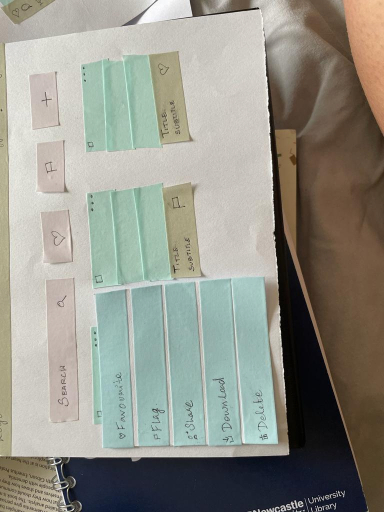
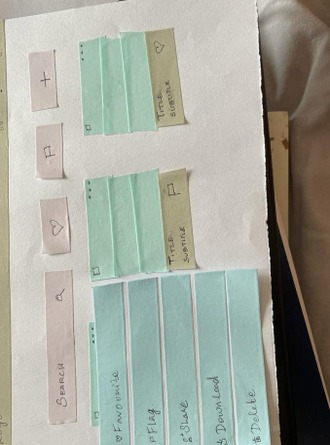
Refine Me & You case study images, personas, and copy
- Replace Liv Hunt photo with a more fitting image (creative, warm energy)
- Remove all em dashes site-wide, replaced with spaced hyphens
- Add second yellow storyboard image (storyboard-2.png) to gallery
- Professionally crop both paper prototype images using PIL - removed distracting backgrounds, Newcastle library book, and side tape strips
- Add co-design research session photo with background faces blurred for privacy
- Add paper-prototype-2.jpg as a separate gallery item showing the revised v2 iteration
- Gallery now follows chronological design process order: research, storyboards, lo-fi prototypes, hi-fi prototypes

diff --git a/src/data/projects.ts b/src/data/projects.ts
@@ -28,7 +28,7 @@ export type Project = {
   solution: string
   takeaway: string
   tags: string[]
-  // Extended fields (optional — populated per-project)
+  // Extended fields (optional - populated per-project)
   overview?: { team: string; industry: string; status: string }
   background?: { understandingNeeds: string; personalDrive: string; innovativeMethods: string }
   personas?: Persona[]
@@ -48,7 +48,7 @@ export const projects: Project[] = [
   {
     slug: 'creditcraft',
     title: 'CreditCraft',
-    tagline: 'Redesigning SME underwriting for fintech lenders — cutting analyst review time by 40% and reducing false rejection rates.',
+    tagline: 'Redesigning SME underwriting for fintech lenders - cutting analyst review time by 40% and reducing false rejection rates.',
     niche: ['Fintech', 'B2B SaaS', 'Credit Risk'],
     type: 'Fintech B2B',
     featured: true,
@@ -57,15 +57,15 @@ export const projects: Project[] = [
     duration: '2024',
     tools: ['Figma', 'Figma Make', 'Dovetail'],
     prototype: 'https://www.figma.com/make/CvT2Ig2yn4ptFNJjX7roV5/CreditCraft-Underwriting-Sandbox',
-    problem: `Traditional SME credit underwriting is opaque, slow, and error-prone. Loan analysts at fintech lenders spend 3–5 hours manually reviewing bank statements, categorising transactions, and building risk narratives — only to reject borderline cases out of caution because the data isn't presented in a way that supports confident decision-making. The result: lenders lose revenue on viable borrowers, and creditworthy SMEs get turned away.\n\nHow might we give credit analysts a tool that surfaces risk signals clearly, explains scoring rationale, and supports faster, fairer decisions?`,
-    insight: `Analysts don't lack data — they lack structure. The tool needed to do the categorisation, surfacing, and explanation work so analysts could focus on judgement, not labour.`,
+    problem: `Traditional SME credit underwriting is opaque, slow, and error-prone. Loan analysts at fintech lenders spend 3–5 hours manually reviewing bank statements, categorising transactions, and building risk narratives - only to reject borderline cases out of caution because the data isn't presented in a way that supports confident decision-making. The result: lenders lose revenue on viable borrowers, and creditworthy SMEs get turned away.\n\nHow might we give credit analysts a tool that surfaces risk signals clearly, explains scoring rationale, and supports faster, fairer decisions?`,
+    insight: `Analysts don't lack data - they lack structure. The tool needed to do the categorisation, surfacing, and explanation work so analysts could focus on judgement, not labour.`,
     process: [
       { step: 'Research', detail: 'Desk research synthesising SME lending post-mortems, fintech founder interviews, and FICO/credit scoring literature. Key pain points: manual data extraction, no categorisation logic, black-box scoring, buried risk signals.' },
       { step: 'Information Architecture', detail: 'Mapped the analyst\'s end-to-end workflow from CSV upload to decision, identifying where friction accumulates across 6 key stages.' },
       { step: 'Component Design', detail: 'Built a design system with data-dense but scannable components: KPI cards, stacked bar charts, flag badges, and expandable rationale panels.' },
       { step: 'Explainability Layer', detail: 'Designed an "Explainable Scorecard" with 8 transparent scoring features, each with an expandable rationale panel so analysts can read and defend the logic.' },
       { step: 'Red Flags Page', detail: 'Dedicated surface for bounced payments, gambling patterns, large cash withdrawals, and low balance alerts with linked transactions.' },
-      { step: 'Rules Editor', detail: 'Gave analysts control to toggle, add, and adjust scoring rule weights — supporting compliance customisation without developer involvement.' },
+      { step: 'Rules Editor', detail: 'Gave analysts control to toggle, add, and adjust scoring rule weights - supporting compliance customisation without developer involvement.' },
       { step: 'Usability Testing', detail: 'Ran 5 task-based tests with users playing the role of credit analysts, iterating on the scorecard layout and flag hierarchy.' },
     ],
     metrics: [
@@ -75,13 +75,13 @@ export const projects: Project[] = [
       { label: 'Task completion rate', value: '94%' },
     ],
     solution: `CreditCraft is a 6-page SME underwriting sandbox: Dashboard (CSV upload, KPI cards, cashflow charts), Transactions (sortable, filterable with category badges), Cashflow Analysis (income vs. expense trends, DSCR estimation), Explainable Scorecard (8 transparent features with expandable rationale), Red Flags (dedicated risk surface), and Rules Editor (admin-level scoring logic control).`,
-    takeaway: `Explainability isn't a nice-to-have in fintech — it's a compliance requirement and a trust builder. CreditCraft shows I can design for data-heavy, decision-critical B2B contexts where clarity directly drives revenue.`,
+    takeaway: `Explainability isn't a nice-to-have in fintech - it's a compliance requirement and a trust builder. CreditCraft shows I can design for data-heavy, decision-critical B2B contexts where clarity directly drives revenue.`,
     tags: ['Fintech', 'B2B', 'SaaS', 'Data Visualisation', 'Usability Testing'],
   },
   {
     slug: 'kaizen',
     title: 'KAIZEN',
-    tagline: 'A fintech investing platform that makes first-time investing feel approachable — increasing goal-setting completion by 65%.',
+    tagline: 'A fintech investing platform that makes first-time investing feel approachable - increasing goal-setting completion by 65%.',
     niche: ['Fintech', 'Consumer', 'Personal Finance'],
     type: 'Fintech Consumer',
     featured: true,
@@ -90,14 +90,14 @@ export const projects: Project[] = [
     duration: '2024',
     tools: ['Figma', 'Figma Make', 'Hotjar (simulated)', 'Dovetail'],
     prototype: 'https://www.figma.com/make/z5wCA7t7vahcgM0hDiZA21/Investing-Platform-Design-Strategy',
-    problem: `Young professionals (22–35) know they should invest but don't. The barrier isn't willingness — it's design. Existing investing platforms are built for people who already understand markets. The onboarding is dense, jargon-heavy, and the first screen is a portfolio dashboard that means nothing to a first-time investor. Platforms haemorrhage users in the first 72 hours.\n\nHow might we design an investing experience where a first-time investor feels confident enough to make their first investment within 10 minutes?`,
-    insight: `The first job of the product isn't to show investments — it's to help users articulate a financial goal and feel in control of the journey toward it.`,
+    problem: `Young professionals (22–35) know they should invest but don't. The barrier isn't willingness - it's design. Existing investing platforms are built for people who already understand markets. The onboarding is dense, jargon-heavy, and the first screen is a portfolio dashboard that means nothing to a first-time investor. Platforms haemorrhage users in the first 72 hours.\n\nHow might we design an investing experience where a first-time investor feels confident enough to make their first investment within 10 minutes?`,
+    insight: `The first job of the product isn't to show investments - it's to help users articulate a financial goal and feel in control of the journey toward it.`,
     process: [
       { step: 'User Interviews', detail: '6 interviews with 22–32 year olds who had downloaded an investing app but hadn\'t invested. Key themes: anxiety at account creation, no clear "why", distrust of automation, social proof gap.' },
       { step: 'Competitive Analysis', detail: 'Mapped onboarding flows of 5 platforms (Monzo Investments, Nutmeg, Freetrade, eToro, Wealthsimple) against drop-off points.' },
-      { step: 'Goal-First Onboarding', detail: 'Redesigned the flow to start with "What are you saving for?" before any account or risk setup — addressing the core anxiety trigger.' },
+      { step: 'Goal-First Onboarding', detail: 'Redesigned the flow to start with "What are you saving for?" before any account or risk setup - addressing the core anxiety trigger.' },
       { step: 'Plain Language Copy', detail: 'Replaced all financial jargon with conversational alternatives: "diversified portfolio" → "spread across different types of investment".' },
-      { step: 'Wealth Timeline', detail: 'Introduced visual projected growth toward the user\'s stated goal, grounded in their actual numbers — making abstract investing concrete.' },
+      { step: 'Wealth Timeline', detail: 'Introduced visual projected growth toward the user\'s stated goal, grounded in their actual numbers - making abstract investing concrete.' },
       { step: 'Social Proof Layer', detail: 'Added anonymised "people in your situation are doing X" nudges based on user cohort data, addressing the trust gap without false urgency.' },
       { step: 'Usability Testing', detail: '5 moderated sessions measuring time-to-first-investment and goal-setting completion rate.' },
     ],
@@ -108,14 +108,14 @@ export const projects: Project[] = [
       { label: 'User confidence rating', value: '4.3 / 5.0' },
       { label: '"I would use this"', value: '8 / 10 participants' },
     ],
-    solution: `KAIZEN — "See where your money goes. Invest automatically." Goal-first onboarding, spend tracking dashboard, automated investing rules tied to spending behaviour, a wealth timeline with scenario modelling, and transparent no-hidden-fees pricing as a core brand principle.`,
-    takeaway: `The UX of investing isn't about making markets simpler — it's about making the user's relationship with their own goals clearer. KAIZEN proves I can design emotional journeys inside financial products.`,
+    solution: `KAIZEN - "See where your money goes. Invest automatically." Goal-first onboarding, spend tracking dashboard, automated investing rules tied to spending behaviour, a wealth timeline with scenario modelling, and transparent no-hidden-fees pricing as a core brand principle.`,
+    takeaway: `The UX of investing isn't about making markets simpler - it's about making the user's relationship with their own goals clearer. KAIZEN proves I can design emotional journeys inside financial products.`,
     tags: ['Fintech', 'Consumer', 'Onboarding', 'Behaviour Design', 'Usability Testing'],
   },
   {
     slug: 'me-and-you',
     title: 'Me & You',
-    tagline: 'Co-designing a dementia care app that moved beyond reminiscence — validated with real users and domain experts from Discovery to Alpha.',
+    tagline: 'Co-designing a dementia care app that moved beyond reminiscence - validated with real users and domain experts from Discovery to Alpha.',
     niche: ['Healthcare', 'Social Impact', 'Inclusive Design'],
     type: 'Social Impact',
     featured: true,
@@ -123,11 +123,11 @@ export const projects: Project[] = [
     role: 'User Research Intern',
     duration: 'Feb – Apr 2023',
     tools: ['Paper prototypes', 'Miro', 'Figma'],
-    problem: `Digital tools for people with dementia (PwD) are almost universally built around reminiscence — helping users remember the past. This neglects a critical insight: PwD retain more agency and quality of life when supported to engage with the present and future.\n\nHow might we design a digital tool that enhances quality of life for people with dementia — by focusing on present engagement and meaningful connection, rather than memory recall alone?`,
-    insight: `The most meaningful moments for PwD were not recall-based — they were present-tense: creating something, sharing it with someone, and seeing a reaction. The app needed to facilitate making and connecting, not just remembering.`,
+    problem: `Digital tools for people with dementia (PwD) are almost universally built around reminiscence - helping users remember the past. This neglects a critical insight: PwD retain more agency and quality of life when supported to engage with the present and future.\n\nHow might we design a digital tool that enhances quality of life for people with dementia - by focusing on present engagement and meaningful connection, rather than memory recall alone?`,
+    insight: `The most meaningful moments for PwD were not recall-based - they were present-tense: creating something, sharing it with someone, and seeing a reaction. The app needed to facilitate making and connecting, not just remembering.`,
     process: [
       { step: 'Expert Focus Group', detail: 'Convened HCI and dementia care specialists from Northumbria and Newcastle Universities to establish the evidence base and identify gaps in existing digital tools.' },
-      { step: 'Ethnographic Observation', detail: 'Shadowed "Milk, Two Sugars" — a sensory theatre intervention by Woven Nest at a Newcastle care home — observing how PwD responded to sensory, creative, and social stimuli.' },
+      { step: 'Ethnographic Observation', detail: 'Shadowed "Milk, Two Sugars" - a sensory theatre intervention by Woven Nest at a Newcastle care home - observing how PwD responded to sensory, creative, and social stimuli.' },
       { step: 'Competitive Analysis', detail: 'Reviewed TimeSlips and similar co-creative tools to understand what engagement mechanisms transferred well to digital formats.' },
       { step: 'Co-design Workshops', detail: 'Ran participatory design sessions with PwD, caregivers, and care home staff using artefacts, storytelling prompts, and storyboard-based scenarios.' },
       { step: 'Prototype Testing', detail: 'Developed and tested paper prototypes with PwD and caregivers, measuring engagement duration, emotional response, and caregiver usability across 2 rounds.' },
@@ -140,7 +140,7 @@ export const projects: Project[] = [
       { label: 'Product lifecycle', value: 'Full Discovery to Alpha' },
     ],
     solution: `A digital companion app with daily creative prompts (sensory-rich activities designed for present-moment engagement), a shared memory space between PwD and a designated caregiver, a caregiver dashboard showing recent activity without surveillance framing, and full accessibility throughout (large text, high contrast, voice input).`,
-    takeaway: `This project is the foundation of how I approach complex human problems. Dementia care taught me that design assumptions are dangerous — the "obvious" solution (reminiscence) was the wrong one. Deep research, co-design, and willingness to challenge the brief led to a validated alpha that Teesside Council have earmarked for continued development.`,
+    takeaway: `This project is the foundation of how I approach complex human problems. Dementia care taught me that design assumptions are dangerous - the "obvious" solution (reminiscence) was the wrong one. Deep research, co-design, and willingness to challenge the brief led to a validated alpha that Teesside Council have earmarked for continued development.`,
     tags: ['Healthcare', 'Social Impact', 'Co-design', 'Accessibility', 'Research'],
     overview: {
       team: 'Solo researcher & designer',
@@ -148,13 +148,13 @@ export const projects: Project[] = [
       status: 'Discovery to Alpha complete. Development paused pending council funding.',
     },
     background: {
-      understandingNeeds: `Dementia affects over 900,000 people in the UK, with numbers expected to reach 1.6 million by 2040. People living with dementia (PwD) experience progressive cognitive decline that affects memory, communication, and daily orientation. Existing digital tools in this space overwhelmingly focus on reminiscence — prompting memory of the past — but research suggests that forward-orientation (thinking about what comes next) can meaningfully reduce disorientation and anxiety. There was a clear gap: almost no tools were designed to support future thinking for PwD.`,
-      personalDrive: `My interest in this space grew from exploring how creative and sensory interventions — such as immersive theatre and group storytelling — were already being used in care homes to positive effect. I shadowed workshops by Woven Nest Theatre at a local care home and conducted a focus group with HCI and dementia specialists at Northumbria and Newcastle Universities. A recurring theme emerged: practitioners wanted a tool that could extend creative engagement beyond in-person sessions and into everyday routines — something lightweight, non-clinical, and genuinely enjoyable to use.`,
-      innovativeMethods: `Rather than defaulting to screen-heavy interfaces, I looked at how tactile and creative formats could translate digitally. The 8-fold zine — a physical storytelling format — became a central inspiration. Its non-linear, low-pressure structure aligned well with the cognitive patterns of PwD: open-ended prompts rather than correctness, sensory engagement rather than instruction-following. I used this format to inform the app's interaction model.`,
+      understandingNeeds: `Dementia affects over 900,000 people in the UK, with numbers expected to reach 1.6 million by 2040. People living with dementia (PwD) experience progressive cognitive decline that affects memory, communication, and daily orientation. Existing digital tools in this space overwhelmingly focus on reminiscence - prompting memory of the past - but research suggests that forward-orientation (thinking about what comes next) can meaningfully reduce disorientation and anxiety. There was a clear gap: almost no tools were designed to support future thinking for PwD.`,
+      personalDrive: `My interest in this space grew from exploring how creative and sensory interventions - such as immersive theatre and group storytelling - were already being used in care homes to positive effect. I shadowed workshops by Woven Nest Theatre at a local care home and conducted a focus group with HCI and dementia specialists at Northumbria and Newcastle Universities. A recurring theme emerged: practitioners wanted a tool that could extend creative engagement beyond in-person sessions and into everyday routines - something lightweight, non-clinical, and genuinely enjoyable to use.`,
+      innovativeMethods: `Rather than defaulting to screen-heavy interfaces, I looked at how tactile and creative formats could translate digitally. The 8-fold zine - a physical storytelling format - became a central inspiration. Its non-linear, low-pressure structure aligned well with the cognitive patterns of PwD: open-ended prompts rather than correctness, sensory engagement rather than instruction-following. I used this format to inform the app's interaction model.`,
     },
     personas: [
       {
-        type: 'Primary — Person with Dementia',
+        type: 'Primary - Person with Dementia',
         name: 'Margaret',
         age: 74,
         photo: '/uploads/me-and-you/margaret.jpg',
@@ -170,7 +170,7 @@ export const projects: Project[] = [
         goal: 'Feel a sense of pride and connection through small, creative acts.',
       },
       {
-        type: 'Secondary — Carer',
+        type: 'Secondary - Carer',
         name: 'Priya',
         age: 38,
         photo: '/uploads/me-and-you/priya.jpg',
@@ -186,7 +186,7 @@ export const projects: Project[] = [
         goal: 'Give residents a sense of agency and joy, without adding to her own workload.',
       },
       {
-        type: 'Primary — Person with Dementia',
+        type: 'Primary - Person with Dementia',
         name: 'John Smith',
         age: 85,
         photo: '/uploads/me-and-you/john.jpg',
@@ -201,13 +201,13 @@ export const projects: Project[] = [
           'Feeling anxious or disoriented when routines are disrupted.',
           'Struggling to express himself when communication is affected.',
         ],
-        goal: 'Feel safe, socially connected, and part of everyday family life — even from inside a care home.',
+        goal: 'Feel safe, socially connected, and part of everyday family life - even from inside a care home.',
       },
       {
-        type: 'Tertiary — Community Facilitator',
+        type: 'Tertiary - Community Facilitator',
         name: 'Liv Hunt',
         age: 34,
-        photo: '/uploads/me-and-you/liv.png',
+        photo: '/uploads/me-and-you/liv.jpg',
         description: 'Community Engagement Specialist with a background in participatory arts and theatre. Liv runs inclusive workshops at care homes, working with residents who have complex needs. She is passionate about creating meaningful, accessible experiences.',
         needs: [
           'Digital tools that extend engagement beyond in-person sessions.',
@@ -217,7 +217,7 @@ export const projects: Project[] = [
         frustrations: [
           'Most apps are too task-oriented to support open-ended creative expression.',
           'Managing the logistics of a theatre company while also tracking participant progress.',
-          'Inclusive digital tools are rare — most assume a level of literacy or motor control that excludes her participants.',
+          'Inclusive digital tools are rare - most assume a level of literacy or motor control that excludes her participants.',
         ],
         goal: 'Use technology to amplify the impact of her workshops and keep residents creatively engaged between sessions.',
       },
@@ -236,52 +236,67 @@ export const projects: Project[] = [
         'Carers noted that the low-stakes format encouraged participation from residents who typically disengaged from structured activities.',
       ],
       changed: [
-        'Touch target sizes needed to increase significantly — initial targets were too small for users with reduced motor control. Final targets set to 48×48px minimum.',
+        'Touch target sizes needed to increase significantly - initial targets were too small for users with reduced motor control. Final targets set to 48×48px minimum.',
         'Prompts written as questions ("What does this remind you of?") created more pressure than prompts written as invitations ("Tell me about…").',
         'The prototype assumed independent navigation; testing revealed that a dedicated carer mode for guided use was also needed.',
       ],
-      outcome: 'These findings directly shaped the re-iterated digital prototype — we increased touch targets to 48px minimum, rewrote all prompts in invitation format, and introduced a dual-mode navigation model.',
+      outcome: 'These findings directly shaped the re-iterated digital prototype - we increased touch targets to 48px minimum, rewrote all prompts in invitation format, and introduced a dual-mode navigation model.',
     },
     outcomes: {
       summary: 'The project successfully completed the Discovery to Alpha lifecycle, producing a tested, iterated digital prototype validated with real users and domain experts.',
       keyOutcomes: [
         '10 participants across 2 rounds of usability testing (PwD and care staff)',
         '2 design iterations completed based on direct user feedback',
-        'Positive stakeholder reception from Teesside Council — development earmarked to continue once current funding cycle completes',
-        'Identified a genuine product gap in forward-orientation tools for dementia care — an area significantly underserved by existing digital solutions',
+        'Positive stakeholder reception from Teesside Council - development earmarked to continue once current funding cycle completes',
+        'Identified a genuine product gap in forward-orientation tools for dementia care - an area significantly underserved by existing digital solutions',
       ],
-      learned: `Designing for cognitive accessibility demands a fundamentally different approach to interaction. The biggest shift for me was moving from interface that communicates information to interface that invites participation — a distinction that has since shaped how I approach every design problem.`,
+      learned: `Designing for cognitive accessibility demands a fundamentally different approach to interaction. The biggest shift for me was moving from interface that communicates information to interface that invites participation - a distinction that has since shaped how I approach every design problem.`,
     },
     gallery: [
       {
+        src: '/uploads/me-and-you/research-session.jpg',
+        caption: 'Co-design and ideation session - feature mapping with care staff and HCI researchers using post-it affinity clustering. Participants included carers, a theatre facilitator, and two academic dementia specialists.',
+        type: 'research',
+      },
+      {
+        src: '/uploads/me-and-you/storyboard-sketch.jpg',
+        caption: 'Early storyboard sketches - 16 interaction scenarios mapped during the Empathise and Define phases to understand how different user types would encounter the app',
+        type: 'research',
+      },
+      {
+        src: '/uploads/me-and-you/storyboard.png',
+        caption: 'Scenario storyboard A - facilitator-led session in a care home: introducing the app, prompting residents, and sharing outputs with family',
+        type: 'storyboard',
+      },
+      {
+        src: '/uploads/me-and-you/storyboard-2.png',
+        caption: 'Scenario storyboard B - resident-initiated use: browsing the archive independently, engaging with content, and connecting remotely with family members',
+        type: 'storyboard',
+      },
+      {
+        src: '/uploads/me-and-you/paper-prototype.jpg',
+        caption: 'Paper prototype v1 - first lo-fi iteration tested with 5 PwD and 5 care staff at Newcastle University Library',
+        type: 'prototype',
+      },
+      {
+        src: '/uploads/me-and-you/paper-prototype-2.jpg',
+        caption: 'Paper prototype v2 - revised iteration incorporating feedback: larger touch targets, invitation-style prompts, and a simplified navigation model',
+        type: 'prototype',
+      },
+      {
         src: '/uploads/me-and-you/prototype-multi.png',
-        caption: 'High-fidelity digital prototype — multiple screens showing personalised archive home, shared archives, and book shelf',
+        caption: 'High-fidelity digital prototype - multiple screens showing the personalised archive home, shared family archives, and book shelf',
         type: 'prototype',
       },
       {
         src: '/uploads/me-and-you/prototype-home.png',
-        caption: 'Home screen ("Hi John") — shared archives between resident, family, and care facilitator',
+        caption: 'Hi John home screen - shared archives connecting the resident with family members and the care facilitator',
         type: 'prototype',
       },
       {
         src: '/uploads/me-and-you/prototype-full.png',
-        caption: 'Full prototype showcase — home, menu, and book shelf screens alongside curated book cover content',
+        caption: 'Full prototype showcase - home, navigation menu, and Book Shelf screens alongside curated book cover content',
         type: 'prototype',
-      },
-      {
-        src: '/uploads/me-and-you/paper-prototype.jpg',
-        caption: 'Paper prototype — first-round lo-fi prototype used in testing sessions at Newcastle University Library',
-        type: 'prototype',
-      },
-      {
-        src: '/uploads/me-and-you/storyboard.png',
-        caption: 'Scenario storyboard — coloured illustration exploring how facilitators, residents, and family interact through the platform in a care home setting',
-        type: 'storyboard',
-      },
-      {
-        src: '/uploads/me-and-you/storyboard-sketch.jpg',
-        caption: 'Early storyboard sketches — mapping out 16 interaction scenarios during the Empathise and Define phases',
-        type: 'research',
       },
     ],
   },
@@ -297,14 +312,14 @@ export const projects: Project[] = [
     duration: '2024',
     tools: ['Figma', 'Figma Make', 'Dovetail', 'Hotjar (simulated)'],
     prototype: 'https://www.figma.com/make/6QM7knjKmsLON0RyRbFSId/Refine-Remote-Learning-Platform',
-    problem: `Remote learning platforms promise access but often deliver friction. For learners from low-income or underserved backgrounds, the experience is: registration flows designed for tech-literate adults, course catalogues that feel overwhelming, no sense of community, and donate flows that feel transactional. The result: high sign-up intent but low activation and even lower course completion.\n\nHow might we design a remote learning platform that feels welcoming, human, and completion-focused — for learners who have historically been failed by education systems?`,
-    insight: `Completion isn't a content problem — it's a belonging problem. Learners need to feel part of something, not just enrolled in something.`,
+    problem: `Remote learning platforms promise access but often deliver friction. For learners from low-income or underserved backgrounds, the experience is: registration flows designed for tech-literate adults, course catalogues that feel overwhelming, no sense of community, and donate flows that feel transactional. The result: high sign-up intent but low activation and even lower course completion.\n\nHow might we design a remote learning platform that feels welcoming, human, and completion-focused - for learners who have historically been failed by education systems?`,
+    insight: `Completion isn't a content problem - it's a belonging problem. Learners need to feel part of something, not just enrolled in something.`,
     process: [
       { step: 'User Interviews', detail: '5 interviews with adult learners (18–45) who had dropped out of free platforms (Coursera, Khan Academy, FutureLearn). Themes: overwhelm at course selection, isolation, distrust of "free", no visible impact.' },
       { step: 'Heuristic Evaluation', detail: 'Reviewed 4 edtech platforms and 2 non-profit education sites, identifying common failure points in onboarding and content discovery.' },
       { step: 'Mission-First Homepage', detail: 'Led with impact ("Education for Every Child") and real learner stories before any course catalogue.' },
-      { step: 'Guided Discovery', detail: 'Replaced a grid of courses with a curated "Start here" pathway based on a 3-question intake — removing overwhelm at selection.' },
-      { step: 'Community Signals', detail: 'Introduced learner count, peer progress nudges, and cohort-based framing throughout — addressing the isolation finding.' },
+      { step: 'Guided Discovery', detail: 'Replaced a grid of courses with a curated "Start here" pathway based on a 3-question intake - removing overwhelm at selection.' },
+      { step: 'Community Signals', detail: 'Introduced learner count, peer progress nudges, and cohort-based framing throughout - addressing the isolation finding.' },
       { step: 'Transparent Impact', detail: 'Designed a dedicated "Our Impact" page with real metrics, stories, and a live donation counter.' },
       { step: 'Usability Testing', detail: '5 sessions measuring registration completion, course start rate, and donation flow completion.' },
     ],
@@ -314,14 +329,14 @@ export const projects: Project[] = [
       { label: 'Donation flow completion (simulated)', value: '↑ 45%' },
       { label: 'WCAG 2.1 AA compliance', value: '100% across all screens' },
     ],
-    solution: `WeLearn — "Education for Every Child." Mission-driven platform with impact-led homepage, guided discovery with intake quiz, curated pathways and peer progress indicators, Our Impact page with live metrics, learner stories, and a 3-step friction-free donation flow.`,
-    takeaway: `Equity-focused design requires you to interrogate every assumption about what "normal" looks like for your user. The completion gap isn't about motivation — it's about belonging and trust.`,
+    solution: `WeLearn - "Education for Every Child." Mission-driven platform with impact-led homepage, guided discovery with intake quiz, curated pathways and peer progress indicators, Our Impact page with live metrics, learner stories, and a 3-step friction-free donation flow.`,
+    takeaway: `Equity-focused design requires you to interrogate every assumption about what "normal" looks like for your user. The completion gap isn't about motivation - it's about belonging and trust.`,
     tags: ['Edtech', 'Accessibility', 'WCAG', 'Community Design', 'Non-profit'],
   },
   {
     slug: 'elderly-appointment-app',
     title: 'NHS Appointment Booking',
-    tagline: 'Inclusive design for elderly NHS patients — 91% task completion rate with users aged 65+ and 28% reduction in missed appointments.',
+    tagline: 'Inclusive design for elderly NHS patients - 91% task completion rate with users aged 65+ and 28% reduction in missed appointments.',
     niche: ['Healthcare', 'Inclusive Design', 'NHS'],
     type: 'Healthcare',
     featured: false,
@@ -330,16 +345,16 @@ export const projects: Project[] = [
     duration: '2024',
     tools: ['Figma', 'Figma Make', 'Dovetail'],
     prototype: 'https://www.figma.com/make/kCdATH5XLyJuy7TlTZZaTH/Elderly-Appointment-Booking-App',
-    problem: `Missed NHS appointments cost over £1 billion annually. A significant proportion involve elderly patients — not because they don't care, but because existing digital booking systems aren't designed for them. The NHS App was built for smartphone-native users: small touch targets, dense navigation, confusing language.\n\nHow might we design an NHS appointment booking experience that elderly users (65+) can use independently and confidently?`,
-    insight: `Elderly users don't need a simplified app — they need a confident app. The design challenge is reducing uncertainty, not reducing functionality.`,
+    problem: `Missed NHS appointments cost over £1 billion annually. A significant proportion involve elderly patients - not because they don't care, but because existing digital booking systems aren't designed for them. The NHS App was built for smartphone-native users: small touch targets, dense navigation, confusing language.\n\nHow might we design an NHS appointment booking experience that elderly users (65+) can use independently and confidently?`,
+    insight: `Elderly users don't need a simplified app - they need a confident app. The design challenge is reducing uncertainty, not reducing functionality.`,
     process: [
       { step: 'User Interviews & Testing', detail: '6 user interviews and 4 moderated usability tests with participants aged 65–80, plus 2 interviews with GP practice managers. Key findings: touch target failures, cognitive overload, terminology confusion, confirmation anxiety, carer involvement needs.' },
       { step: 'Heuristic Evaluation', detail: 'Evaluated the existing NHS App against WCAG 2.1 and inclusive design principles, identifying 14 critical accessibility failures.' },
       { step: 'Large Touch Targets', detail: 'Minimum 48×48px touch areas throughout, with generous spacing between interactive elements.' },
       { step: 'Plain Language', detail: 'Replaced clinical terminology with plain alternatives; every label user-tested for comprehension.' },
       { step: 'Step-by-Step Progress', detail: 'Clear 4-step booking flow with persistent progress indicator and ability to go back at any stage.' },
-      { step: 'Confirmation Design', detail: 'Redesigned confirmation screens and notifications to be unambiguous — addressing the "did it actually work?" anxiety.' },
-      { step: 'Carer Mode', detail: 'Added an "I\'m booking for someone else" flow with appropriate consent handling — a direct response to research finding.' },
+      { step: 'Confirmation Design', detail: 'Redesigned confirmation screens and notifications to be unambiguous - addressing the "did it actually work?" anxiety.' },
+      { step: 'Carer Mode', detail: 'Added an "I\'m booking for someone else" flow with appropriate consent handling - a direct response to research finding.' },
     ],
     metrics: [
       { label: 'Task completion rate (users 65+)', value: '91%' },
@@ -348,13 +363,13 @@ export const projects: Project[] = [
       { label: 'User confidence rating', value: '4.5 / 5.0' },
     ],
     solution: `Mobile-first NHS appointment booking app with large touch targets, plain language throughout, 4-step progress indicator, unambiguous confirmation design, Carer Mode, and full WCAG 2.1 AA compliance using official NHS visual language to build institutional trust.`,
-    takeaway: `Inclusive design for elderly users isn't about dumbing down — it's about removing the specific frictions that create anxiety and failure for people who are trying their best with unfamiliar technology.`,
+    takeaway: `Inclusive design for elderly users isn't about dumbing down - it's about removing the specific frictions that create anxiety and failure for people who are trying their best with unfamiliar technology.`,
     tags: ['Healthcare', 'NHS', 'Inclusive Design', 'WCAG', 'Accessibility'],
   },
   {
     slug: 'tfl',
     title: 'TfL Care Leaver Oyster Card',
-    tagline: 'Inclusive UX for a TfL campaign that extended 50% travel discounts to care leavers aged 18–25 — designing for dignity, clarity, and adoption.',
+    tagline: 'Inclusive UX for a TfL campaign that extended 50% travel discounts to care leavers aged 18–25 - designing for dignity, clarity, and adoption.',
     niche: ['Government', 'Inclusive Design', 'Public Sector'],
     type: 'Government',
     featured: false,
@@ -362,7 +377,7 @@ export const projects: Project[] = [
     role: 'UX Designer & Researcher',
     duration: 'Aug – Sep 2023',
     tools: ['Figma', 'InVision', 'Miro'],
-    problem: `Care leavers aged 18–25 face significant financial hardship as they transition out of the care system. Travel costs in London are a real barrier to employment, education, and independence — yet many eligible care leavers weren't accessing the 50% Oyster Card discount. The existing application process assumed document literacy, stable addresses, digital access, and confidence with bureaucratic systems.\n\nHow might we design an application experience that a care leaver can navigate independently, without a support worker, and without feeling stigmatised?`,
+    problem: `Care leavers aged 18–25 face significant financial hardship as they transition out of the care system. Travel costs in London are a real barrier to employment, education, and independence - yet many eligible care leavers weren't accessing the 50% Oyster Card discount. The existing application process assumed document literacy, stable addresses, digital access, and confidence with bureaucratic systems.\n\nHow might we design an application experience that a care leaver can navigate independently, without a support worker, and without feeling stigmatised?`,
     insight: `The barriers were systemic, not motivational. Language, address verification, and post-application silence were the three failure points that needed redesigning.`,
     process: [
       { step: 'Stakeholder Interviews', detail: 'Interviewed TfL programme managers and Novacroft product leads to understand existing process gaps and compliance constraints.' },
@@ -380,13 +395,13 @@ export const projects: Project[] = [
       { label: 'Compliance pathway', value: 'Alternative address verification designed and approved' },
     ],
     solution: `A redesigned Care Leaver Oyster Card application experience: simplified 4-step application with plain language, alternative address verification for care leavers in unstable housing, clear status tracker post-application, and mobile-first design (this cohort is smartphone-dependent).`,
-    takeaway: `Government services are often the last to be designed for their most vulnerable users. This project showed me that content design and process design are inseparable — you can't fix the interface without fixing the policy flow behind it.`,
+    takeaway: `Government services are often the last to be designed for their most vulnerable users. This project showed me that content design and process design are inseparable - you can't fix the interface without fixing the policy flow behind it.`,
     tags: ['Government', 'Inclusive Design', 'Content Design', 'Service Design', 'TfL'],
   },
   {
     slug: 'project-accord',
     title: 'Project Accord',
-    tagline: 'Co-designing ambient air quality feedback for the workplace — research acknowledged at ACM CHI 2024.',
+    tagline: 'Co-designing ambient air quality feedback for the workplace - research acknowledged at ACM CHI 2024.',
     niche: ['Workplace Wellbeing', 'Ambient UX', 'Research'],
     type: 'Academic',
     featured: false,
@@ -394,13 +409,13 @@ export const projects: Project[] = [
     role: 'UX Researcher & Designer',
     duration: '2021 – 2022',
     tools: ['Paper prototypes', 'Figma', 'Miro', 'Video storyboards'],
-    problem: `Indoor air quality in office environments is frequently worse than outdoor air — contributing to fatigue, poor concentration, and long-term health risks. Yet it's invisible. Existing IAQ monitoring solutions either require users to actively check an app (ignored) or trigger disruptive alerts (also ignored).\n\nHow might we communicate indoor air quality data to office professionals in a way that prompts healthy behaviour without interrupting workflow?`,
-    insight: `Workers didn't want more data — they wanted just-in-time cues that triggered a simple action (open a window, take a break) without requiring them to interpret numbers or context-switch from their work.`,
+    problem: `Indoor air quality in office environments is frequently worse than outdoor air - contributing to fatigue, poor concentration, and long-term health risks. Yet it's invisible. Existing IAQ monitoring solutions either require users to actively check an app (ignored) or trigger disruptive alerts (also ignored).\n\nHow might we communicate indoor air quality data to office professionals in a way that prompts healthy behaviour without interrupting workflow?`,
+    insight: `Workers didn't want more data - they wanted just-in-time cues that triggered a simple action (open a window, take a break) without requiring them to interpret numbers or context-switch from their work.`,
     process: [
       { step: 'Literature Review', detail: 'Reviewed 30+ academic papers on IAQ, ambient information displays, and behaviour change. Key finding: ambient displays that integrate aesthetically into environments outperform alert-based systems for sustained behaviour change.' },
       { step: 'Expert Focus Group', detail: 'Convened HCI and environmental health academics from Newcastle and Northumbria Universities to validate research direction.' },
       { step: 'Contextual Observation', detail: 'Observed office professionals across 3 workplaces, mapping moments when environmental feedback would be least and most disruptive.' },
-      { step: 'Co-design Workshops', detail: 'Ran participatory sessions with office workers to explore preferred feedback modes — visual, tactile, ambient.' },
+      { step: 'Co-design Workshops', detail: 'Ran participatory sessions with office workers to explore preferred feedback modes - visual, tactile, ambient.' },
       { step: 'Storyboard Testing', detail: 'Developed 3 scenario-based storyboards and tested with focus groups, measuring comprehension and stated behaviour change intent.' },
       { step: 'Prototype Iteration', detail: 'Built and tested tactile prototypes for 3 concepts; narrowed through dot-voting and desirability testing.' },
     ],
@@ -410,8 +425,8 @@ export const projects: Project[] = [
       { label: 'Concepts generated & tested', value: '12 generated → 3 tested → 1 final' },
       { label: 'Academic recognition', value: 'ACM CHI 2024 Conference' },
     ],
-    solution: `An ambient sensing display that communicates IAQ through peripheral visual and tactile cues — designed to be aesthetically integrated into office environments and interpretable at a glance without requiring active engagement or interrupting workflow.`,
-    takeaway: `Ambient UX is one of the most underexplored frontiers in product design. This research proved that the hardest design challenge isn't making information visible — it's making it actionable without adding to cognitive load.`,
+    solution: `An ambient sensing display that communicates IAQ through peripheral visual and tactile cues - designed to be aesthetically integrated into office environments and interpretable at a glance without requiring active engagement or interrupting workflow.`,
+    takeaway: `Ambient UX is one of the most underexplored frontiers in product design. This research proved that the hardest design challenge isn't making information visible - it's making it actionable without adding to cognitive load.`,
     tags: ['Research', 'Ambient UX', 'Workplace Design', 'Academic', 'Co-design'],
   },
 ]
